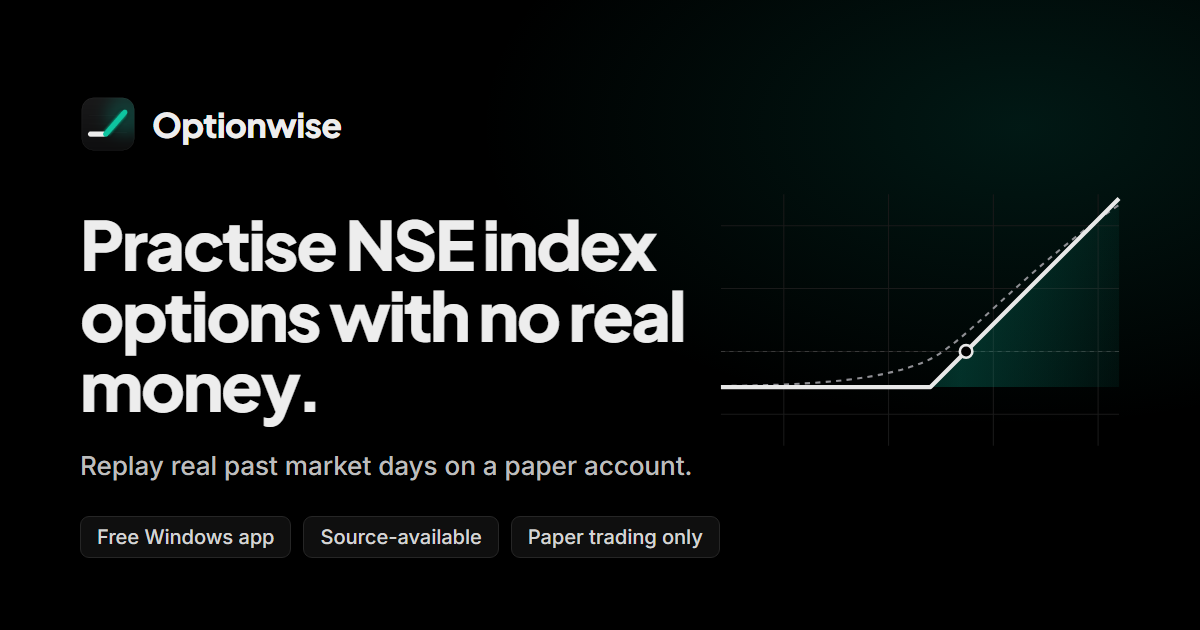
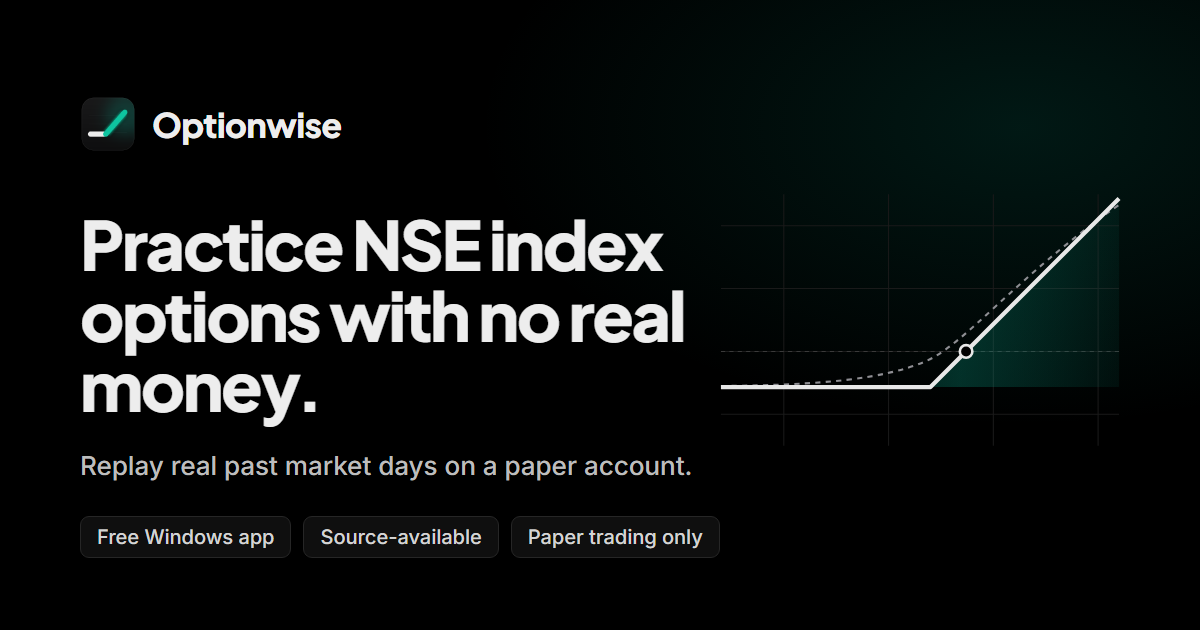
Spell practice the American way everywhere

Changed region(s): [[0.2158, 0.3317, 0.555, 0.4524]]

diff --git a/public/js/app.js b/public/js/app.js
@@ -39,7 +39,7 @@ function guide() {
   const g = el('section', { class: 'guide', id: 'guide', 'aria-labelledby': 'guideTitle' },
     el('div', { class: 'panel-h', style: { marginBottom: '0' } },
       el('div', {}, el('h2', { id: 'guideTitle', text: 'New to options? Start here' }),
-        el('p', { class: 'note', style: { marginTop: '4px' }, text: 'Everything in Optionwise uses pretend money, so you can practise freely without risking a rupee.' })),
+        el('p', { class: 'note', style: { marginTop: '4px' }, text: 'Everything in Optionwise uses pretend money, so you can practice freely without risking a rupee.' })),
       el('span', { class: 'sp' }),
       el('button', { class: 'btn ghost sm', type: 'button', text: 'Hide guide', onclick: () => { g.hidden = true; store.set('guideHidden', true); } })),
     el('ol', { class: 'steps' },
@@ -189,11 +189,11 @@ function initDesktop() {
   const mode = $('#modeBtn');
   mode.hidden = false;
   mode.textContent = S.meta.mock ? 'Switch to live prices' : 'Switch to replay';
-  mode.title = S.meta.mock ? 'Use real NSE prices and your main paper account' : 'Practise on real past days, one day at a time (works when the market is closed), with a separate replay balance';
+  mode.title = S.meta.mock ? 'Use real NSE prices and your main paper account' : 'Practice on real past days, one day at a time (works when the market is closed), with a separate replay balance';
   mode.addEventListener('click', async () => {
     const toSim = !S.meta.mock;
     const msg = toSim
-      ? 'Switch to replay? You practise on real past days at their closing prices, with a separate replay balance. Optionwise restarts in a few seconds.'
+      ? 'Switch to replay? You practice on real past days at their closing prices, with a separate replay balance. Optionwise restarts in a few seconds.'
       : 'Switch back to live NSE prices? Your replay session is kept for next time. Optionwise restarts in a few seconds.';
     if (!confirm(msg)) return;
     replay.stopPlay();

diff --git a/site/index.html b/site/index.html
@@ -3,7 +3,7 @@
 <head>
 <meta charset="utf-8">
 <meta name="viewport" content="width=device-width, initial-scale=1">
-<title>Optionwise · Practise NSE index options with no real money</title>
+<title>Optionwise · Practice NSE index options with no real money</title>
 <meta name="description" content="Optionwise is a free Windows app for learning NSE index options: guided lessons, a broker-style option chain, a strategy builder and paper trading on real past market days, with no real money.">
 <meta name="theme-color" content="#000000">
 <meta name="color-scheme" content="dark">
@@ -13,7 +13,7 @@
 <link rel="apple-touch-icon" href="assets/apple-touch-icon.png">
 <meta property="og:type" content="website">
 <meta property="og:site_name" content="Optionwise">
-<meta property="og:title" content="Optionwise: practise NSE index options with no real money">
+<meta property="og:title" content="Optionwise: practice NSE index options with no real money">
 <meta property="og:description" content="Learn options by trading real past market days on a paper account. Free Windows app, source-available.">
 <meta property="og:url" content="https://yaminichandrakj.github.io/optionwise/">
 <meta property="og:image" content="https://yaminichandrakj.github.io/optionwise/assets/og-image.png">
@@ -57,7 +57,7 @@
   <div class="hero-text">
     <p class="eyebrow">Free Windows app for beginners</p>
     <h1 id="hero-title">Optionwise</h1>
-    <p class="lead">Learn NSE index options by practising on real past days, with no real money.</p>
+    <p class="lead">Learn NSE index options by practicing on real past days, with no real money.</p>
     <div class="cta-row">
       <a class="btn big" href="#demo" data-scroll>Try the 90-second demo</a>
       <div class="cta" data-cta="hero">

diff --git a/public/js/replay.js b/public/js/replay.js
@@ -1,4 +1,4 @@
-// Replay: practise on real past NSE days. A control bar under the tabs moves the replay clock (a few minutes in a
+// Replay: practice on real past NSE days. A control bar under the tabs moves the replay clock (a few minutes in a
 // minute-by-minute session, a day, a week, to the next expiry, or auto-play), and the Replay tab holds session setup,
 // the trade journal, the end-of-session summary, history downloads and settings. The server disguises dates in blind
 // mode, so this file never has to.
@@ -153,7 +153,7 @@ async function renderTab() {
 }
 
 function intro() {
-  return el('p', { class: 'intro' }, el('b', { text: 'Practise on real past days.' }), ' Pick a day in history and trade at the close, or turn on minute by minute replay to watch a session unfold. Play moves one market minute at a time and pauses at the close; larger jumps are tucked under Jump ahead. Your replay balance is separate from the live paper account.');
+  return el('p', { class: 'intro' }, el('b', { text: 'Practice on real past days.' }), ' Pick a day in history and trade at the close, or turn on minute by minute replay to watch a session unfold. Play moves one market minute at a time and pauses at the close; larger jumps are tucked under Jump ahead. Your replay balance is separate from the live paper account.');
 }
 
 const stat = (k, v, cls, s) => el('div', { class: 'stat' }, el('div', { class: 'k' }, term(k)), el('div', { class: 'v ' + (cls || ''), text: v }), s ? el('div', { class: 's', text: s }) : null);

diff --git a/public/js/ticket.js b/public/js/ticket.js
@@ -57,7 +57,7 @@ function render() {
     body.append(el('div', { class: 'note', text: `${legs.length} legs, placed together at the live quotes.` }));
   }
   body.append(el('label', { class: 'f', for: 'tkNote' }, 'Journal entry (required)',
-    el('textarea', { class: 'inp note-in', id: 'tkNote', rows: '2', minlength: '1', maxlength: '1000', 'aria-required': 'true', placeholder: S.meta.replay ? 'What do you expect the index or volatility to do?' : 'Why are you taking this trade? What are you practising?', oninput: (e) => { note = e.target.value; syncPlaceButton(); } }, note),
+    el('textarea', { class: 'inp note-in', id: 'tkNote', rows: '2', minlength: '1', maxlength: '1000', 'aria-required': 'true', placeholder: S.meta.replay ? 'What do you expect the index or volatility to do?' : 'Why are you taking this trade? What are you practicing?', oninput: (e) => { note = e.target.value; syncPlaceButton(); } }, note),
     el('span', { class: 'note', text: 'Enter at least one non-space character. Your entry is saved with the order.' })));
   if (S.meta.replay) body.append(
     el('label', { class: 'f', for: 'tkPlan' }, 'What would prove your idea wrong? (exit plan)',

diff --git a/site/js/main.js b/site/js/main.js
@@ -32,11 +32,11 @@ function wireCta(root) {
   const share = root.querySelector('[data-share]');
   if (share && navigator.share) {
     share.hidden = false;
-    share.addEventListener('click', () => navigator.share({ title: 'Optionwise', text: 'Practise NSE index options with no real money. Open on a Windows laptop.', url: SITE_URL }).catch(() => {}));
+    share.addEventListener('click', () => navigator.share({ title: 'Optionwise', text: 'Practice NSE index options with no real money. Open on a Windows laptop.', url: SITE_URL }).catch(() => {}));
   }
   const mail = root.querySelector('[data-mail]');
   if (mail) {
-    const body = `Try Optionwise on my laptop: ${SITE_URL}\n\nFree Windows app for practising NSE index options with no real money.`;
+    const body = `Try Optionwise on my laptop: ${SITE_URL}\n\nFree Windows app for practicing NSE index options with no real money.`;
     mail.href = `mailto:?subject=${encodeURIComponent('Optionwise: open on my laptop')}&body=${encodeURIComponent(body)}`;
   }
   const copy = root.querySelector('[data-copylink]');

diff --git a/server.js b/server.js
@@ -27,7 +27,7 @@ import { LiveOptionHistory } from './lib/opthist.js';
 const ROOT = path.dirname(fileURLToPath(import.meta.url));
 const portArg = process.argv.indexOf('--port');
 const PORT = Number(portArg > 0 ? process.argv[portArg + 1] : process.env.PORT) || 4321;
-// "Simulated" mode is the replay: practise on real past days, stepped forward one trading day at a time.
+// "Simulated" mode is the replay: practice on real past days, stepped forward one trading day at a time.
 const MOCK = process.env.MOCK === '1' || process.argv.includes('--sim') || process.argv.includes('--replay');
 desktop.migrateData();
 loadDotEnv(path.join(ROOT, '.env')); // source runs only: optional developer credentials; end users connect in the app

diff --git a/lib/config.js b/lib/config.js
@@ -52,7 +52,7 @@ export function rateOn(list, date) {
 
 export const RISK_FREE = 0.06;
 
-// ---- Replay (the simulated account practises on real past days) ----
+// ---- Replay (the simulated account practices on real past days) ----
 // Lot size by trade date, used for old-format bhavcopies (before July 2024) and as a fallback.
 // Lots really belong to each contract: during a revision old contracts keep the old lot for a while,
 // so the importer reads the lot from the file (new format) or from the open interest (old format) and

diff --git a/README.md b/README.md
@@ -12,7 +12,7 @@ Windows app, free for noncommercial use. Latest version and download: see [Relea
 
 - The first time, Windows SmartScreen may say "Windows protected your PC" if the release you downloaded is not code-signed. Check the download first (see **Verify your download** below), then click **More info**, then **Run anyway**.
 - When a new version is out, an **Update to …** badge appears at the top. Click it; the app downloads, restarts and shows "Updated to …". Your paper account is kept.
-- **Switch to replay / Switch to live prices** (next to the data badge) restarts the app in replay mode (real past market days, see below) or back on live NSE prices. Use replay to practise when the market is closed.
+- **Switch to replay / Switch to live prices** (next to the data badge) restarts the app in replay mode (real past market days, see below) or back on live NSE prices. Use replay to practice when the market is closed.
 
 ### Verify your download
 
@@ -39,9 +39,9 @@ The `Hash` it prints must match the `Optionwise.exe` line on the release page (u
 
 Also: India VIX (the market's "fear gauge") in the header, a **Beginner guide** button, and dotted-underlined words that explain themselves when you hover or tap them.
 
-## Replay: practise on real past days
+## Replay: practice on real past days
 
-Replay mode replaces live prices with NSE's own end-of-day records, so you can practise any time, including when the market is closed.
+Replay mode replaces live prices with NSE's own end-of-day records, so you can practice any time, including when the market is closed.
 
 1. **Download history** in the Replay tab: pick a date range (three to six months is a good start). The app fetches NSE's daily F&O bhavcopy (the old format before July 2024 and the current UDiFF one), the NIFTY 50 and NIFTY BANK closes and India VIX, keeps NIFTY and BANK NIFTY options, and stores them on your computer in `replay.db`. About 1 MB to download per trading day; nothing is bundled in the app.
 2. **Start a session** on a day of your choice, or a random day. Tick **Blind mode** to hide the real date until you finish: dates are shifted to a made-up year, while weekdays and days to expiry stay true.
